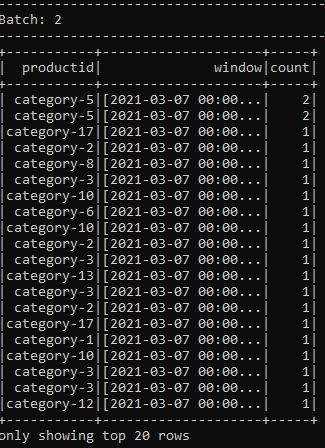
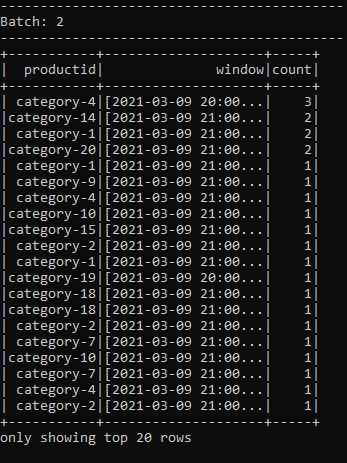
structure improved

diff --git a/nifi_spark_kafka_product_bought.py b/nifi_spark_kafka_product_bought.py
@@ -22,7 +22,7 @@ if __name__ == "__main__":
     kafka_df = spark.readStream \
         .format("kafka") \
         .option("kafka.bootstrap.servers", "localhost:9092") \
-        .option("subscribe", "order") \
+        .option("subscribe", "order3") \
         .option("startingOffsets", "earliest") \
         .load()
 #Data in kafka topic have key-value format, from_json is used to deserialize json value from string
